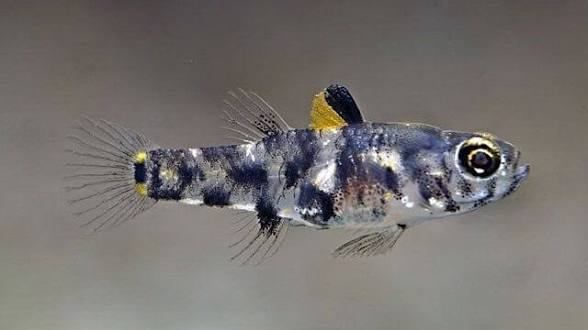
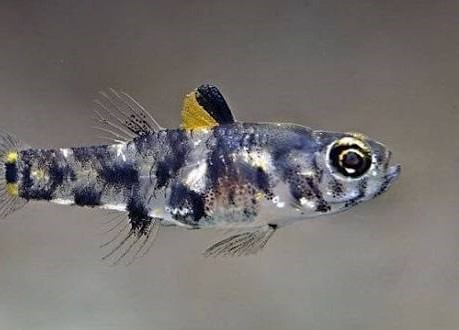
scroll thing

Changed region(s): [[0.0, 0.2424, 0.915, 0.7879]]

diff --git a/html/js/scroll-species.js b/html/js/scroll-species.js
@@ -122,29 +122,34 @@ window.addEventListener("click", (e) => {
     clickSound.play().catch(() => {});
   }
 
-  /* ================= FILTER: SPECIES ONLY ================= */
+/* ================= FILTER: SPECIES ONLY ================= */
   const speciesSection = document.querySelector("#species");
 
   if (speciesSection) {
     const speciesButtons = speciesSection.querySelectorAll(".filter-buttons button");
     const speciesCards = speciesSection.querySelectorAll(".species-card");
 
+    // Make ALL active by default
+    speciesButtons.forEach(btn => {
+      if (btn.dataset.filter === "all") btn.classList.add("active");
+    });
+
     speciesButtons.forEach(btn => {
       btn.addEventListener("click", () => {
-
         speciesButtons.forEach(b => b.classList.remove("active"));
         btn.classList.add("active");
 
         const filter = btn.dataset.filter;
 
         speciesCards.forEach(card => {
-          const status = card.dataset.status;
-
-          card.style.display =
-            (filter === "all" || filter === status) ? "flex" : "none";
+          const status = card.dataset.status || "common";
+          card.style.display = (filter === "all" || filter === status) ? "flex" : "none";
         });
 
-        speciesSection.querySelectorAll(".slider-container").forEach(initSlider);
+        // Reinitialize slider after filter
+        setTimeout(() => {
+          speciesSection.querySelectorAll(".slider-container").forEach(initSlider);
+        }, 50);
       });
     });
   }
@@ -156,113 +161,143 @@ window.addEventListener("click", (e) => {
     const ecoButtons = ecoSection.querySelectorAll(".ecosystem-filter-buttons button");
     const ecoCards = ecoSection.querySelectorAll(".species-card");
 
+    // Make ALL active by default
+    ecoButtons.forEach(btn => {
+      if (btn.dataset.filter === "all") btn.classList.add("active");
+    });
+
     ecoButtons.forEach(btn => {
       btn.addEventListener("click", () => {
-
         ecoButtons.forEach(b => b.classList.remove("active"));
         btn.classList.add("active");
 
         const filter = btn.dataset.filter;
 
         ecoCards.forEach(card => {
-          const status = card.dataset.status;
-
-          card.style.display =
-            (filter === "all" || filter === status) ? "flex" : "none";
+          const status = card.dataset.status || "common";
+          card.style.display = (filter === "all" || filter === status) ? "flex" : "none";
         });
 
-        ecoSection.querySelectorAll(".slider-container").forEach(initSlider);
+        // Reinitialize slider after filter
+        setTimeout(() => {
+          ecoSection.querySelectorAll(".slider-container").forEach(initSlider);
+        }, 50);
       });
     });
   }
+ /* ================= SLIDER - FIXED INFINITE CAROUSEL ================= */
+document.querySelectorAll(".slider-container").forEach(initSlider);
 
-  /* ================= SLIDER ================= */
-  /* ================= SWIPE + INFINITE SLIDER ================= */
-  document.querySelectorAll(".slider-container").forEach(initSlider);
+function initSlider(container) {
+  const scroll = container.querySelector(".species-scroll");
+  const leftBtn = container.querySelector(".arrow.left");
+  const rightBtn = container.querySelector(".arrow.right");
 
-  function initSlider(container) {
-    const scroll = container.querySelector(".species-scroll");
-    const leftBtn = container.querySelector(".arrow.left");
-    const rightBtn = container.querySelector(".arrow.right");
+  let index = 1;
+  let isDragging = false;
+  let startX = 0;
+  let scrollLeftPos = 0;
 
-    let index = 0;
-    let isDragging = false;
-    let startX = 0;
-    let scrollLeft = 0;
-    
-    
-
-    const getCards = () =>
-      [...scroll.querySelectorAll(".species-card")]
-        .filter(c => getComputedStyle(c).display !== "none");
-
-    function updateSlider() {
-      const cards = getCards();
-      if (!cards.length) return;
-
-      if (index >= cards.length) index = 0;
-      if (index < 0) index = cards.length - 1;
-
-      const card = cards[index];
-      const scrollPosition = card.offsetLeft + (card.offsetWidth / 2) - (scroll.clientWidth / 2);
-
-      scroll.scrollTo({
-        left: scrollPosition,
-        behavior: "smooth"
-      });
-
-      cards.forEach(c => c.classList.remove("active"));
-      card.classList.add("active");
-      
-    }
-
-    // Infinite loop setup
-    function setupInfinite() {
-      const originalCards = getCards();
-      if (originalCards.length < 3) return;
-      originalCards.forEach(card => scroll.appendChild(card.cloneNode(true)));
-    }
-
-    setTimeout(() => {
-      setupInfinite();
-      updateSlider();
-    }, 200);
-
-    // Swipe functionality
-    scroll.addEventListener("touchstart", (e) => {
-      isDragging = true;
-      startX = e.touches[0].pageX - scroll.offsetLeft;
-      scrollLeft = scroll.scrollLeft;
-    });
-
-    scroll.addEventListener("touchend", () => {
-      isDragging = false;
-      const cards = getCards();
-      const cardWidth = cards[0] ? cards[0].offsetWidth + 30 : 400;
-      index = Math.round(scroll.scrollLeft / cardWidth);
-      updateSlider();
-    });
-
-    scroll.addEventListener("touchmove", (e) => {
-      if (!isDragging) return;
-      e.preventDefault();
-      const x = e.touches[0].pageX - scroll.offsetLeft;
-      const walk = (x - startX) * 2;
-      scroll.scrollLeft = scrollLeft - walk;
-    });
-
-    // Arrow buttons (Desktop only)
-    function move(dir) {
-      index += dir;
-      updateSlider();
-      playSound();
-    }
-
-    if (rightBtn) rightBtn.addEventListener("click", () => move(1));
-    if (leftBtn) leftBtn.addEventListener("click", () => move(-1));
+  function refreshCards() {
+    return [...scroll.querySelectorAll(".species-card")]
+      .filter(c => getComputedStyle(c).display !== "none");
   }
+
+  function clearPreviousClones() {
+    const allCards = scroll.querySelectorAll(".species-card");
+    allCards.forEach(card => {
+      if (card.classList.contains("clone")) {
+        card.remove();
+      }
+    });
+  }
+
+  function setupInfinite() {
+    clearPreviousClones(); // Important: remove old clones first
+    let cards = refreshCards();
+    if (cards.length < 2) return;
+
+    // Clone first and last cards
+    const firstClone = cards[0].cloneNode(true);
+    const lastClone = cards[cards.length - 1].cloneNode(true);
+
+    firstClone.classList.add("clone");
+    lastClone.classList.add("clone");
+
+    // Add clones
+    scroll.appendChild(firstClone);
+    scroll.insertBefore(lastClone, scroll.firstChild);
+
+    // Make clones clickable
+    [firstClone, lastClone].forEach(clone => {
+      clone.style.cursor = "pointer";
+      clone.addEventListener("click", () => openModal(clone));
+    });
+  }
+
+  function updateSlider(smooth = true) {
+    let cards = refreshCards();
+    if (cards.length < 3) return;
+
+    const realCardCount = cards.length - 2;
+    if (index > realCardCount) index = 1;
+    if (index < 1) index = realCardCount;
+
+    const targetCard = cards[index];
+    const cardWidth = targetCard.offsetWidth + 30;
+    const centerPosition = targetCard.offsetLeft - (scroll.clientWidth - targetCard.offsetWidth) / 2;
+
+    scroll.scrollTo({
+      left: centerPosition,
+      behavior: smooth ? "smooth" : "auto"
+    });
+
+    cards.forEach(c => c.classList.remove("active"));
+    targetCard.classList.add("active");
+  }
+
+  // Initial setup
+  setTimeout(() => {
+    setupInfinite();
+    updateSlider(false);
+  }, 150);
+
+  // Arrow buttons
+  function move(dir) {
+    index += dir;
+    updateSlider(true);
+    if (typeof playSound === "function") playSound();
+  }
+
+  if (rightBtn) rightBtn.addEventListener("click", () => move(1));
+  if (leftBtn) leftBtn.addEventListener("click", () => move(-1));
+
+  // Touch swipe
+  scroll.addEventListener("touchstart", e => {
+    isDragging = true;
+    startX = e.touches[0].pageX - scroll.offsetLeft;
+    scrollLeftPos = scroll.scrollLeft;
+  });
+
+  scroll.addEventListener("touchend", () => {
+    isDragging = false;
+    const cards = refreshCards();
+    const cardWidth = cards[1] ? cards[1].offsetWidth + 30 : 400;
+    index = Math.round(scroll.scrollLeft / cardWidth);
+    updateSlider(true);
+  });
+
+  scroll.addEventListener("touchmove", e => {
+    if (!isDragging) return;
+    e.preventDefault();
+    const x = e.touches[0].pageX - scroll.offsetLeft;
+    const walk = (x - startX) * 2.2;
+    scroll.scrollLeft = scrollLeftPos - walk;
+  });
+}
 
 });
+
 
 const feedbackForm = document.querySelector(".feedback-form");
 const popup = document.getElementById("thankPopup");

diff --git a/html/index.html b/html/index.html
@@ -231,6 +231,25 @@
             </div>
           </div>
 
+                    <!-- Largetooth Sawfish -->
+          <div class="species-card" data-status="critical">
+            <div class="species-image">
+              <img src="https://scontent.fcrk4-1.fna.fbcdn.net/v/t39.30808-6/657763235_122100110474915727_2356043769445812324_n.jpg?_nc_cat=111&ccb=1-7&_nc_sid=6ee11a&_nc_eui2=AeHUfpjdkRjO5OVGX_lj9BxQusN1EFxyKee6w3UQXHIp51zPU1F5NokyTRpC8H7MD_QkEG7naAE3Xok20nJ4pz91&_nc_ohc=Wy1Zv7gAOO0Q7kNvwGQRQBd&_nc_oc=Adoep3Z_8YTboSjPQaJebsY9AKtw7deupg9o95tkZKFfgL_s8kZLtZOkCo_PeFK7qWA&_nc_zt=23&_nc_ht=scontent.fcrk4-1.fna&_nc_gid=fytWC7FFZ0UpE0lYoJX5pw&_nc_ss=7f2a8&oh=00_Af7O98EIOiIBtr_cZnRppQF4zUi7RGrIWivSnauuzQhZCQ&oe=6A17A8D3" alt="Largetooth Sawfish">
+              <span class="status critical">CRITICAL</span>
+            </div>
+            <div class="species-content">
+              <h3>Jeremy Mituda</h3>
+              <p class="latin">Pristis pristis</p>
+              <p class="desc">
+                A Critical Endangerment To The Public.
+              </p>
+              <div class="habitat">
+                <span>HABITAT</span>
+                <p>Yes.
+              </div>
+            </div>
+          </div>
+
           <!-- Napoleon Wrasse -->
           <div class="species-card" data-status="endangered">
             <div class="species-image">

diff --git a/README.md b/README.md
@@ -1,35 +1,1 @@
 # marinewebiste11
-          <!-- Clownfish -->
-          <div class="species-card" data-status="common">
-            <div class="species-image">
-              <img src="images,vids/clown.jpg" alt="Clownfish">
-              <span class="status common">COMMON</span>
-            </div>
-            <div class="species-content">
-              <h3>Clownfish</h3>
-              <p class="latin">Amphiprioninae</p>
-              <p class="desc">
-                Colorful reef fish known for its mutualistic relationship with sea anemones.
-              </p>
-              <div class="habitat">
-                <hr>
-                <span>HABITAT</span>
-                <p>Shallow coral reefs</p>
-              </div>
-            </div>
-          </div>
-
-          <!-- Coral Lagoons -->
-          <div class="species-card" data-status="fragile">
-            <div class="species-image">
-              <img src="images,vids/Coral Lagoons.jpg" alt="Coral Lagoons">
-              <span class="status fragile">FRAGILE</span>
-            </div>
-            <div class="species-content">
-              <h3>Coral Lagoons</h3>
-              <p class="latin">Sheltered Reef Zones</p>
-              <p class="desc">
-                Shallow waters near reefs that serve as nurseries for marine organisms.
-              </p>
-            </div>
-          </div>